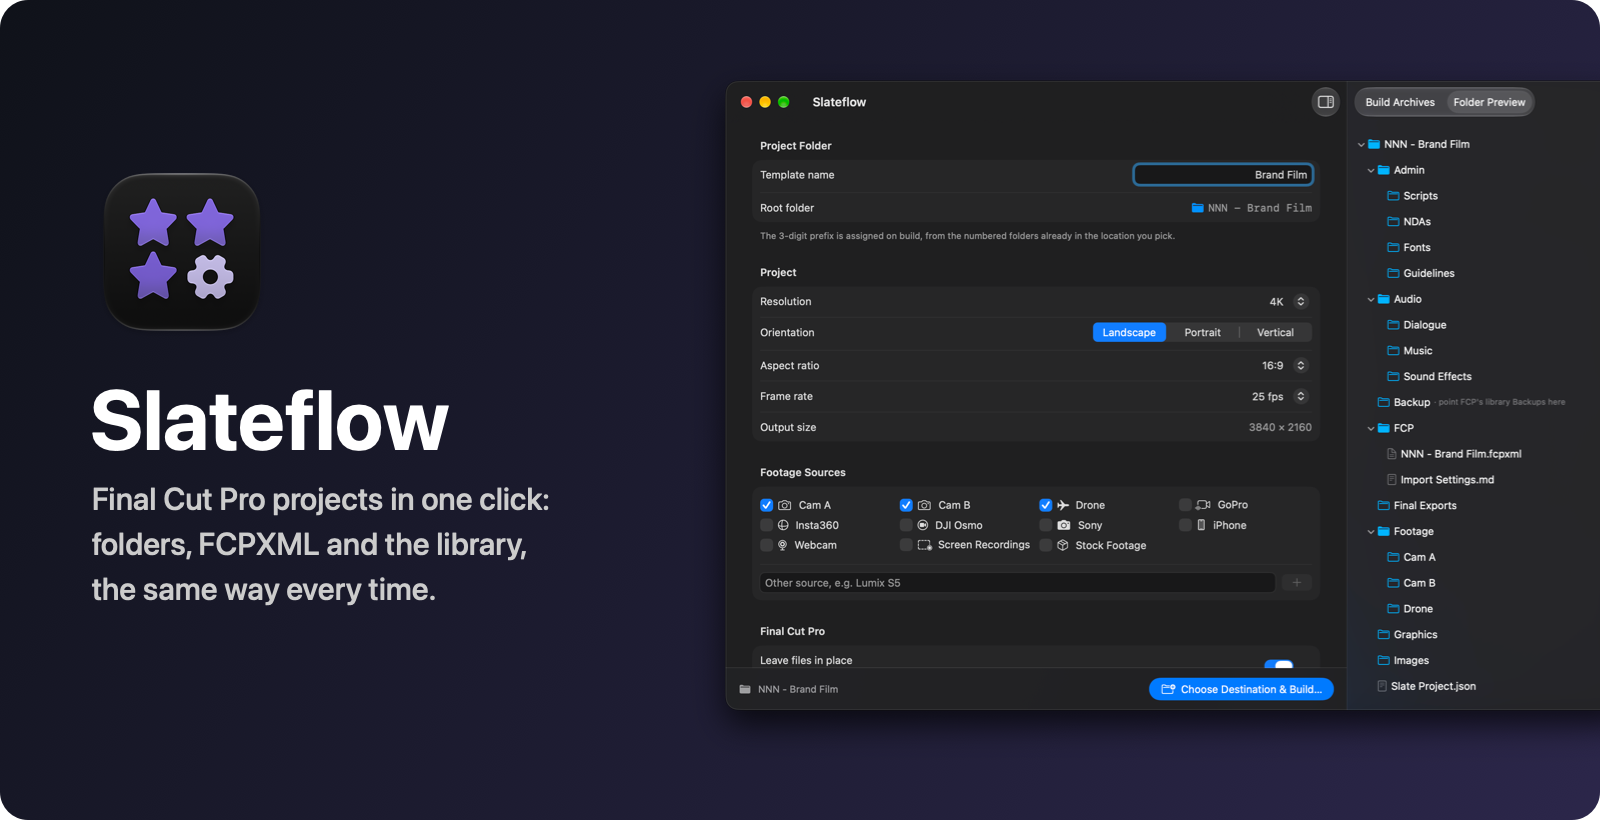
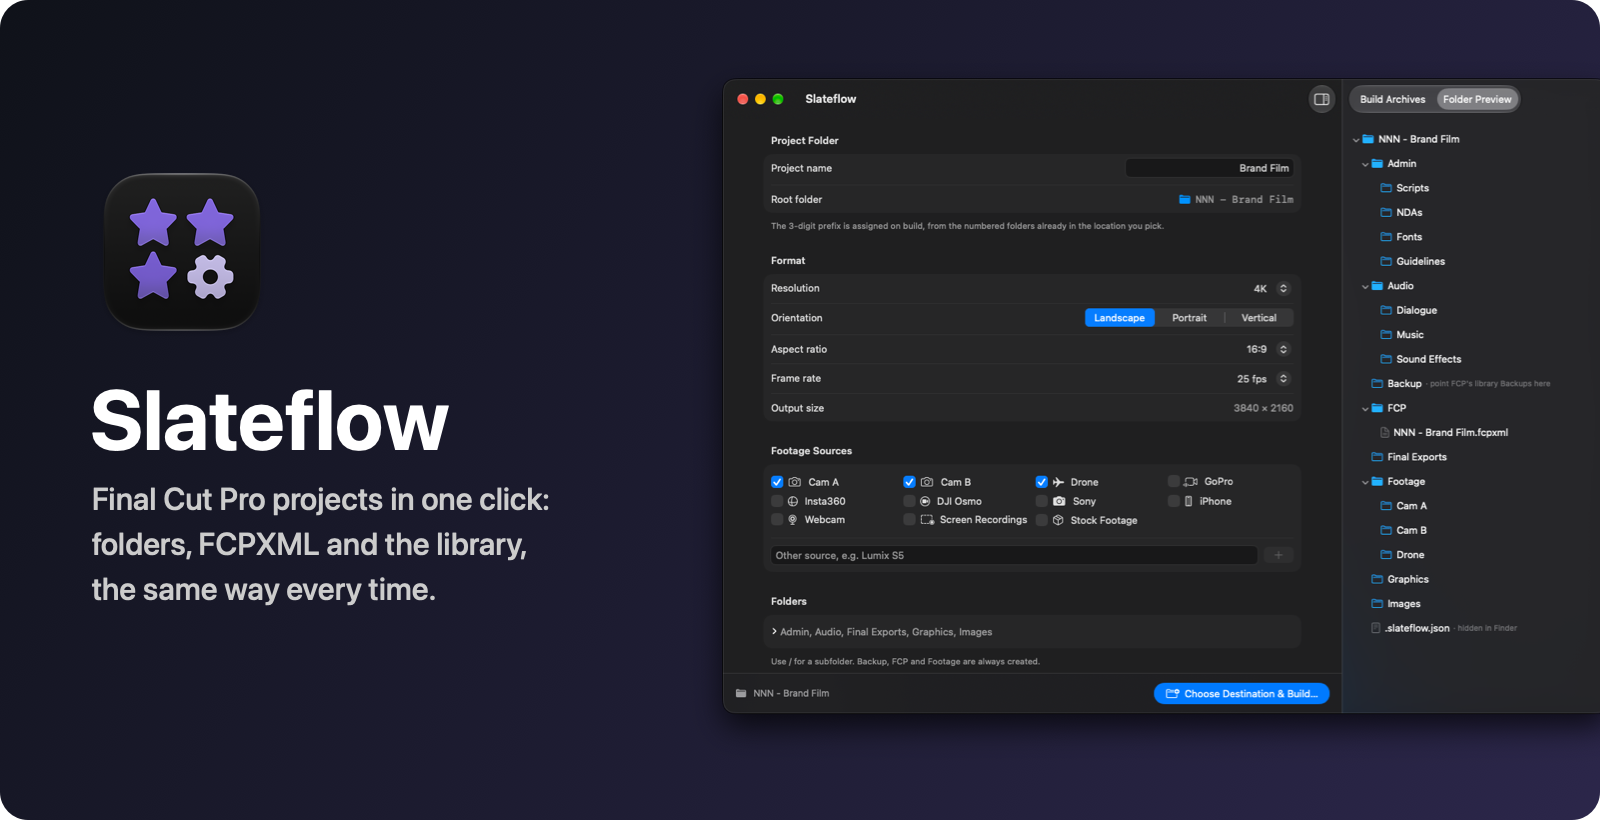
README: shorter, with the Final Cut settings Slateflow can't set (#12)
* README: cut what the app shows, keep the Final Cut settings it can't set

Drop the step-by-step use list and UI walkthrough the window already makes
obvious, and the internal .slateflow.json detail. Add a short Final Cut
settings section: Leave files in place and Keywords: From folders once, and
Backups when a new library asks.

* README: drop the preview GIF

The hero banner already shows the app, and the GIF walked through steps the
window makes obvious.

* README: refresh the hero banners from the current app

The old screenshots showed Template name, the Project header,
Import Settings.md and Slate Project.json, all changed in #11.

diff --git a/README.md b/README.md
@@ -23,34 +23,27 @@
 ## What it does
 
 - **Numbered project folders.** `001 - Name`, `002 - Name`, …, always the next free number in the folder you pick.
-- **The same structure every time.** Admin, Audio, Backup, FCP, Final Exports, Footage, Graphics and Images by default. Add, remove or nest your own folders in **Folders**.
-- **A folder per camera.** Turn on Cam A/B, Drone, GoPro, Insta360, DJI Osmo, Sony, iPhone, Webcam, Screen Recordings or Stock Footage, or type your own.
+- **The same structure every time.** Admin, Audio, Backup, FCP, Final Exports, Footage, Graphics and Images, or your own folders.
+- **A folder per camera.** Cam A/B, Drone, GoPro, Insta360, DJI Osmo, Sony, iPhone, Webcam, Screen Recordings, Stock Footage, or your own.
 - **A ready Final Cut project.** The `.fcpxml` carries your resolution, aspect ratio, frame rate, roles, and Smart Collections that sort clips on import.
-- **The library, created for you.** **Open in Final Cut Pro** has Final Cut create the library in the project's `FCP` folder and import the project. There's nothing to click in Final Cut, and the library always matches your installed version.
-- **A record of every build.** A hidden `.slateflow.json` in each project, and **Build Archives** in the app to reuse past settings.
-
-The **Folder Preview** updates as you change settings, so you see exactly what a build will create:
-
-<p align="center">
-  <img src="docs/assets/readme/slateflow.gif" width="720" alt="Turning on GoPro and Screen Recordings adds their folders to the Folder Preview; switching to Vertical changes the output size to 2160 × 3840; Open in Final Cut Pro creates FCP/001 - Brand Film.fcpbundle">
-</p>
+- **The library, created for you.** Final Cut creates it in the project's `FCP` folder, in your installed version's format.
+- **Reuse past settings.** **Build Archives** keeps every build's format and naming.
 
 ## Install
 
-Download `Slateflow-<version>.dmg` from [Releases](https://github.com/PixelEtch/Slateflow/releases), open it and drag **Slateflow** onto **Applications**. It's signed and notarized by Apple, so it opens normally.
+Download the DMG from [Releases](https://github.com/PixelEtch/Slateflow/releases) and drag **Slateflow** onto **Applications**. It's signed and notarized by Apple. Updates come through **Slateflow > Check for Updates…**; alpha and beta versions are test builds.
 
-Updates arrive through **Slateflow > Check for Updates…**. Versions marked alpha or beta are test builds.
+## Final Cut settings
 
-## Use it
+Final Cut can't take these from the project file, so set them yourself:
 
-1. Name the project, then pick the format, footage sources, folders, roles and Smart Collections.
-2. Click **Choose Destination & Build…** and choose where projects go. Slateflow remembers the folder, so next time the button is just **Build**. **Change…** picks another.
-3. Click **Open in Final Cut Pro**. In Final Cut Pro ▸ Settings ▸ Import, turn on **Leave files in place**, and when Final Cut asks for storage locations, set Backups to the project's `Backup` folder.
+- **Once, in Final Cut Pro ▸ Settings ▸ Import:** turn on **Leave files in place**, and **Keywords: From folders** so camera folders fill their Smart Collections.
+- **When a new library asks for storage locations:** set Backups to the project's `Backup` folder. Media and render files already stay inside the project.
 
 ## What you need
 
 - macOS 15 Sequoia or later, on Apple silicon or Intel.
-- Final Cut Pro, to open the projects.
+- Final Cut Pro.
 
 ## Private by default
 
